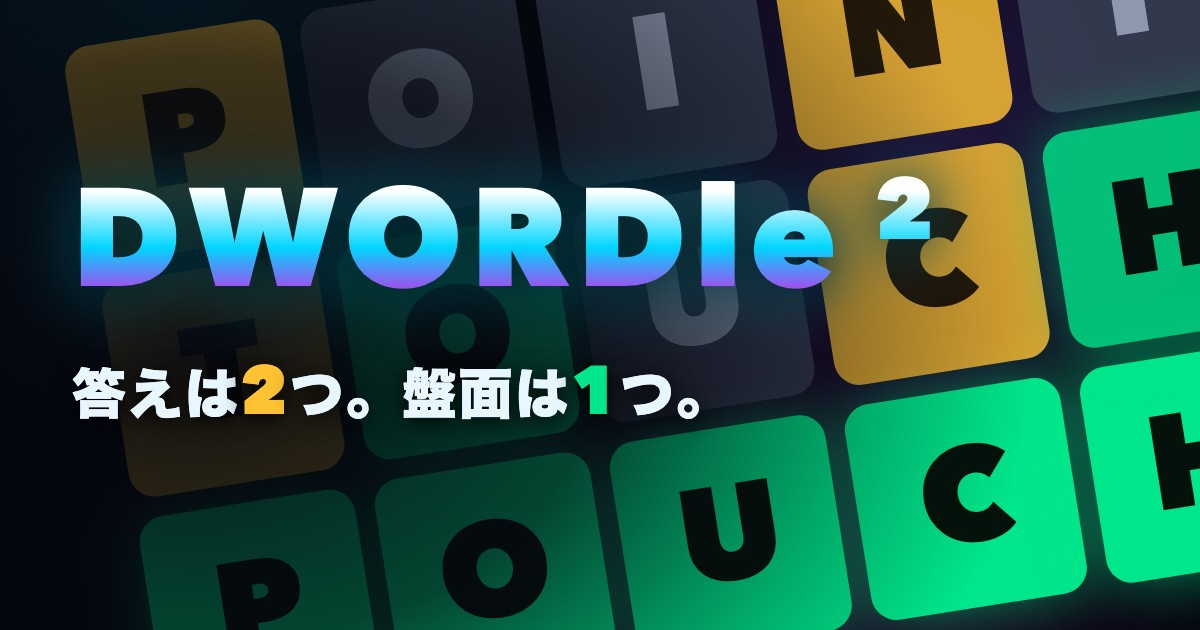
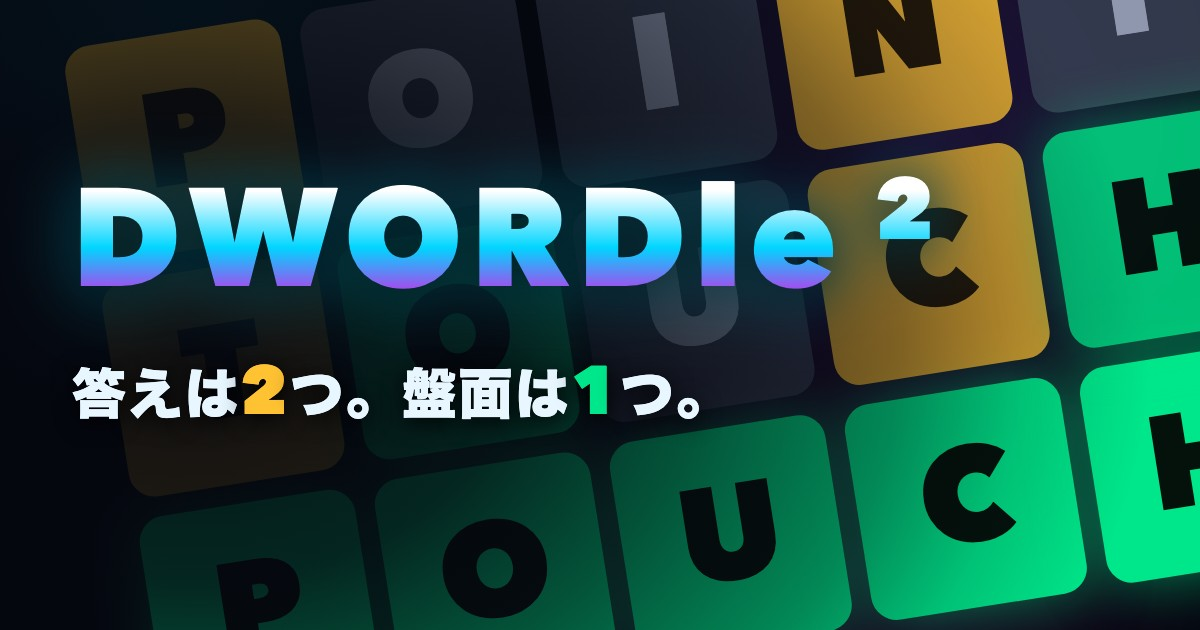
OGPを横長カードに統一し、og.jpgのスモークを右へ延長

Changed region(s): [[0.4317, 0.0, 0.8942, 1.0], [0.5242, 0.0, 0.5858, 0.181], [0.74, 0.0, 0.7708, 0.0302]]

diff --git a/DWORDle2/index.html b/DWORDle2/index.html
@@ -15,21 +15,19 @@
 <meta property="og:title" content="DWORDle | 新感覚Wordle">
 <meta property="og:description" content="答えは2つ。盤面は1つ。新感覚Wordle！">
 <meta property="og:url" content="https://kakira9618.github.io/DWORDle2/">
-<!-- 横長カードを出すクライアント（Discord / Slack / LINE など）には 1.91:1 の og.jpg を渡す。
+<!-- カードは全クライアント共通で 1.91:1 の og.jpg を使う。
      グラデーション主体の絵なので JPEG（PNG だと 423KB、JPEG 品質90 なら 90KB） -->
 <meta property="og:image" content="https://kakira9618.github.io/DWORDle2/og.jpg">
 <meta property="og:image:type" content="image/jpeg">
 <meta property="og:image:width" content="1200">
 <meta property="og:image:height" content="630">
 <meta property="og:image:alt" content="DWORDle 2 — 答えが2つある Wordle">
-<!-- X は正方形アイコンの Summary カード。summary_large_image だと正方形が 1.91:1 に
-     切り抜かれてアイコンの意匠が欠けるため、カード種別を summary にして
-     twitter:image（og:image より優先される）に正方形アイコンを渡す -->
-<meta name="twitter:card" content="summary">
+<!-- X も横長の大きいカードで統一する（画像は og:image と同じ og.jpg） -->
+<meta name="twitter:card" content="summary_large_image">
 <meta name="twitter:title" content="DWORDle | 新感覚Wordle">
 <meta name="twitter:description" content="答えは2つ。盤面は1つ。新感覚Wordle！">
-<meta name="twitter:image" content="https://kakira9618.github.io/DWORDle2/og-square.png">
-<meta name="twitter:image:alt" content="DWORDle 2 のアイコン">
+<meta name="twitter:image" content="https://kakira9618.github.io/DWORDle2/og.jpg">
+<meta name="twitter:image:alt" content="DWORDle 2 — 答えが2つある Wordle">
 <link rel="stylesheet" href="css/style.css?v=20260725-b">
 <script type="importmap">
 { "imports": { "three": "./vendor/three.module.min.js" } }

diff --git a/DWORDle2/tools/og.html b/DWORDle2/tools/og.html
@@ -74,15 +74,19 @@
   }
   .row.dim { opacity: 0.82; }
 
-  /* タイトルを読ませるための左側のシェード */
+  /* タイトルを読ませるための左側のシェード。
+     ロゴの「2」（x ≒ 930px）までしっかり暗さを残し、その先で右のタイルへ抜ける。
+     停止位置は中心 (16%, 56%) からの相対なので、x = 192 + 1140 * stop で効き目が分かる */
   .shade {
     position: absolute;
     inset: 0;
     background: radial-gradient(95% 130% at 16% 56%,
-      rgba(5, 7, 15, 0.94) 0%,
-      rgba(5, 7, 15, 0.72) 36%,
-      rgba(5, 7, 15, 0.28) 58%,
-      rgba(5, 7, 15, 0) 74%);
+      rgba(5, 7, 15, 0.95) 0%,
+      rgba(5, 7, 15, 0.86) 28%,
+      rgba(5, 7, 15, 0.64) 46%,
+      rgba(5, 7, 15, 0.42) 62%,
+      rgba(5, 7, 15, 0.16) 73%,
+      rgba(5, 7, 15, 0) 84%);
   }
 
   .copy {

diff --git a/DWORDle2/sw.js b/DWORDle2/sw.js
@@ -2,7 +2,7 @@
 // DWORDle 2 の Service Worker。全資産をインストール時に事前キャッシュし、
 // オフラインでも完全動作させる（キャッシュ優先 + ネットワークフォールバック）。
 // キャッシュ名はソースハッシュ入りで、デプロイのたびに新しいキャッシュへ入れ替わる。
-const CACHE_NAME = "dwordle2-7faabd59";
+const CACHE_NAME = "dwordle2-b71dd02b";
 const PRECACHE = [
   "./",
   "index.html",

diff --git a/DWORDle2/js/version.js b/DWORDle2/js/version.js
@@ -1,3 +1,3 @@
 // 自動生成ファイル。tools/make-source-hash.mjs が書き出す（手で編集しない）。
 // DWORDle2 のソースコード（index.html + css/** + js/**、このファイルを除く）のハッシュ。
-export const SOURCE_HASH = "7faabd59";
+export const SOURCE_HASH = "b71dd02b";
